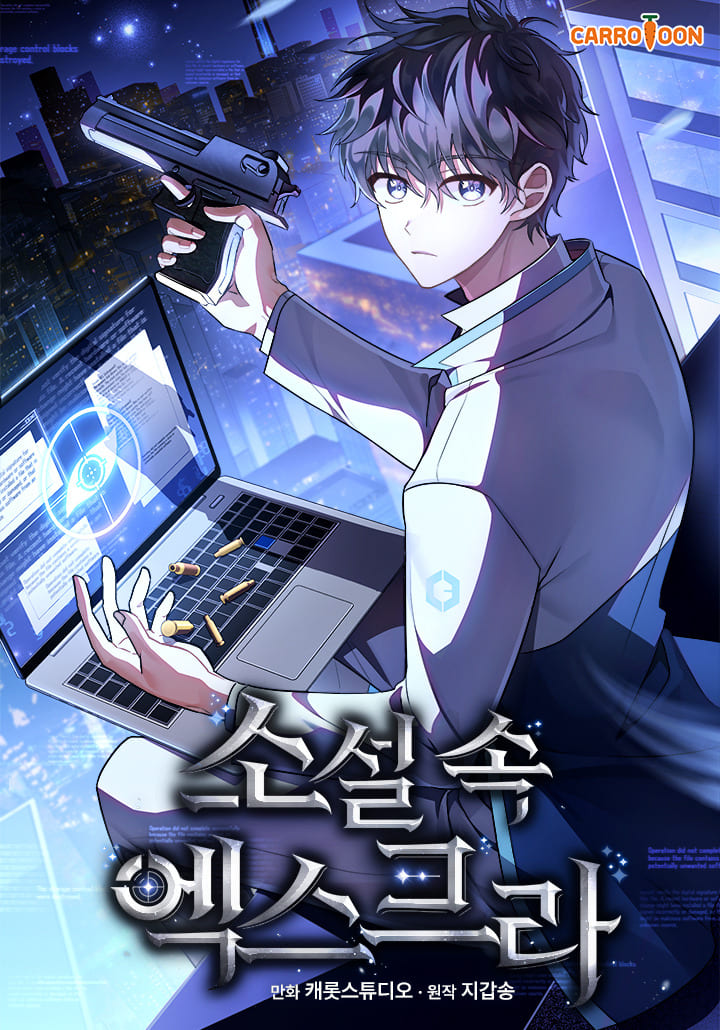
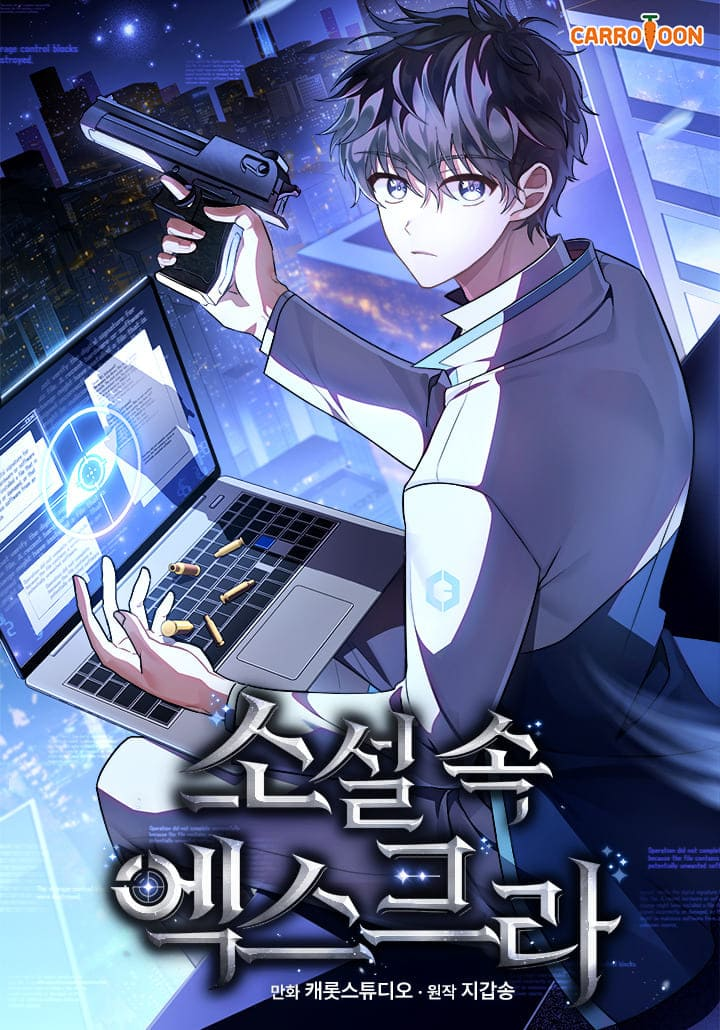
Better sized img

diff --git a/Vistas/home.php b/Vistas/home.php
@@ -26,7 +26,7 @@
                 <div class="recommend">
                     <container>
                         <h4 selected>My Farm by the Palace</h4>
-                        <img src="../Resouces/IMG/Covers/Manwha/Tam_500/farm_palace.jpg" alt="No img at the moment" draggable="false">
+                        <img src="../Resouces/IMG/Covers/Manwha/Tam_300/farm_palace.jpg" alt="No img at the moment" draggable="false">
                         <p>
                             Status: Ongoing <br>
                             Chapters: 86+ <br>
@@ -36,7 +36,7 @@
                     </container>
                     <container>
                         <h4 selected>The Archimage’s Restaurant</h4>
-                        <img src="../Resouces/IMG/Covers/Manwha/Tam_500/archmage_restaurant.jpg" alt="No img at the moment" draggable="false">
+                        <img src="../Resouces/IMG/Covers/Manwha/Tam_300/archmage_restaurant.jpg" alt="No img at the moment" draggable="false">
                         <p>
                             Status: Ongoing <br>
                             Chapters: 75+ <br>
@@ -46,7 +46,7 @@
                     </container>
                     <container>
                         <h4 selected>The Novel’s Extra</h4>
-                        <img src="../Resouces/IMG/Covers/Manwha/Tam_500/Extra.jpg" alt="No img at the moment" draggable="false">
+                        <img src="../Resouces/IMG/Covers/Manwha/Tam_300/Extra.jpg" alt="No img at the moment" draggable="false">
                         <p>
                             Status: Ongoing <br>
                             Chapters: 125+ <br>
@@ -56,7 +56,7 @@
                     </container>
                     <container>
                         <h4 selected>The Extra’s Academy Survival Guide</h4>
-                        <img src="../Resouces/IMG/Covers/Manwha/Tam_500/Academy_guide.jpg" alt="No img at the moment" draggable="false">
+                        <img src="../Resouces/IMG/Covers/Manwha/Tam_300/Academy_guide.jpg" alt="No img at the moment" draggable="false">
                         <p>
                             Status: Ongoing <br>
                             Chapters: 72+ <br>
@@ -90,7 +90,7 @@
                 <div class="recommend">
                     <container>
                         <h4 selected>So I’m a spider, so what?</h4>
-                        <img src="../Resouces/IMG/Covers/Manga/Tam_500/kumoko.jpg" alt="No img at the moment" draggable="false">
+                        <img src="../Resouces/IMG/Covers/Manga/Tam_300/kumoko.jpg" alt="No img at the moment" draggable="false">
                         <p>
                             Status: Ongoing<br>
                             Chapters: 73+<br>
@@ -100,7 +100,7 @@
                     </container>
                     <container>
                         <h4 selected>With Vengeance, Sincerely, Your Broken Saintess</h4>
-                        <img src="../Resouces/IMG/Covers/Manga/Tam_500/betrayed_saint.jpg" alt="No img at the moment" draggable="false">
+                        <img src="../Resouces/IMG/Covers/Manga/Tam_300/betrayed_saint.jpg" alt="No img at the moment" draggable="false">
                         <p>
                             Status: Ongoing<br>
                             Chapters: 123+<br>
@@ -110,7 +110,7 @@
                     </container>
                     <container>
                         <h4 selected>The Otome Heroine's Fight for Survival</h4>
-                        <img src="../Resouces/IMG/Covers/Manga/Tam_500/assasin_survival.jpg" alt="No img at the moment" draggable="false">
+                        <img src="../Resouces/IMG/Covers/Manga/Tam_300/assasin_survival.jpg" alt="No img at the moment" draggable="false">
                         <p>
                             Status: Ongoing <br>
                             Chapters: 23+<br>
@@ -120,7 +120,7 @@
                     </container>
                     <container>
                         <h4 selected>The fed-up office Lady Wants to Serve The villainess</h4>
-                        <img src="../Resouces/IMG/Covers/Manga/Tam_500/fed_up_office.jpg" alt="No img at the moment" draggable="false">
+                        <img src="../Resouces/IMG/Covers/Manga/Tam_300/fed_up_office.jpg" alt="No img at the moment" draggable="false">
                         <p>
                             Status: Ongoing <br>
                             Chapter: 20+<br>
